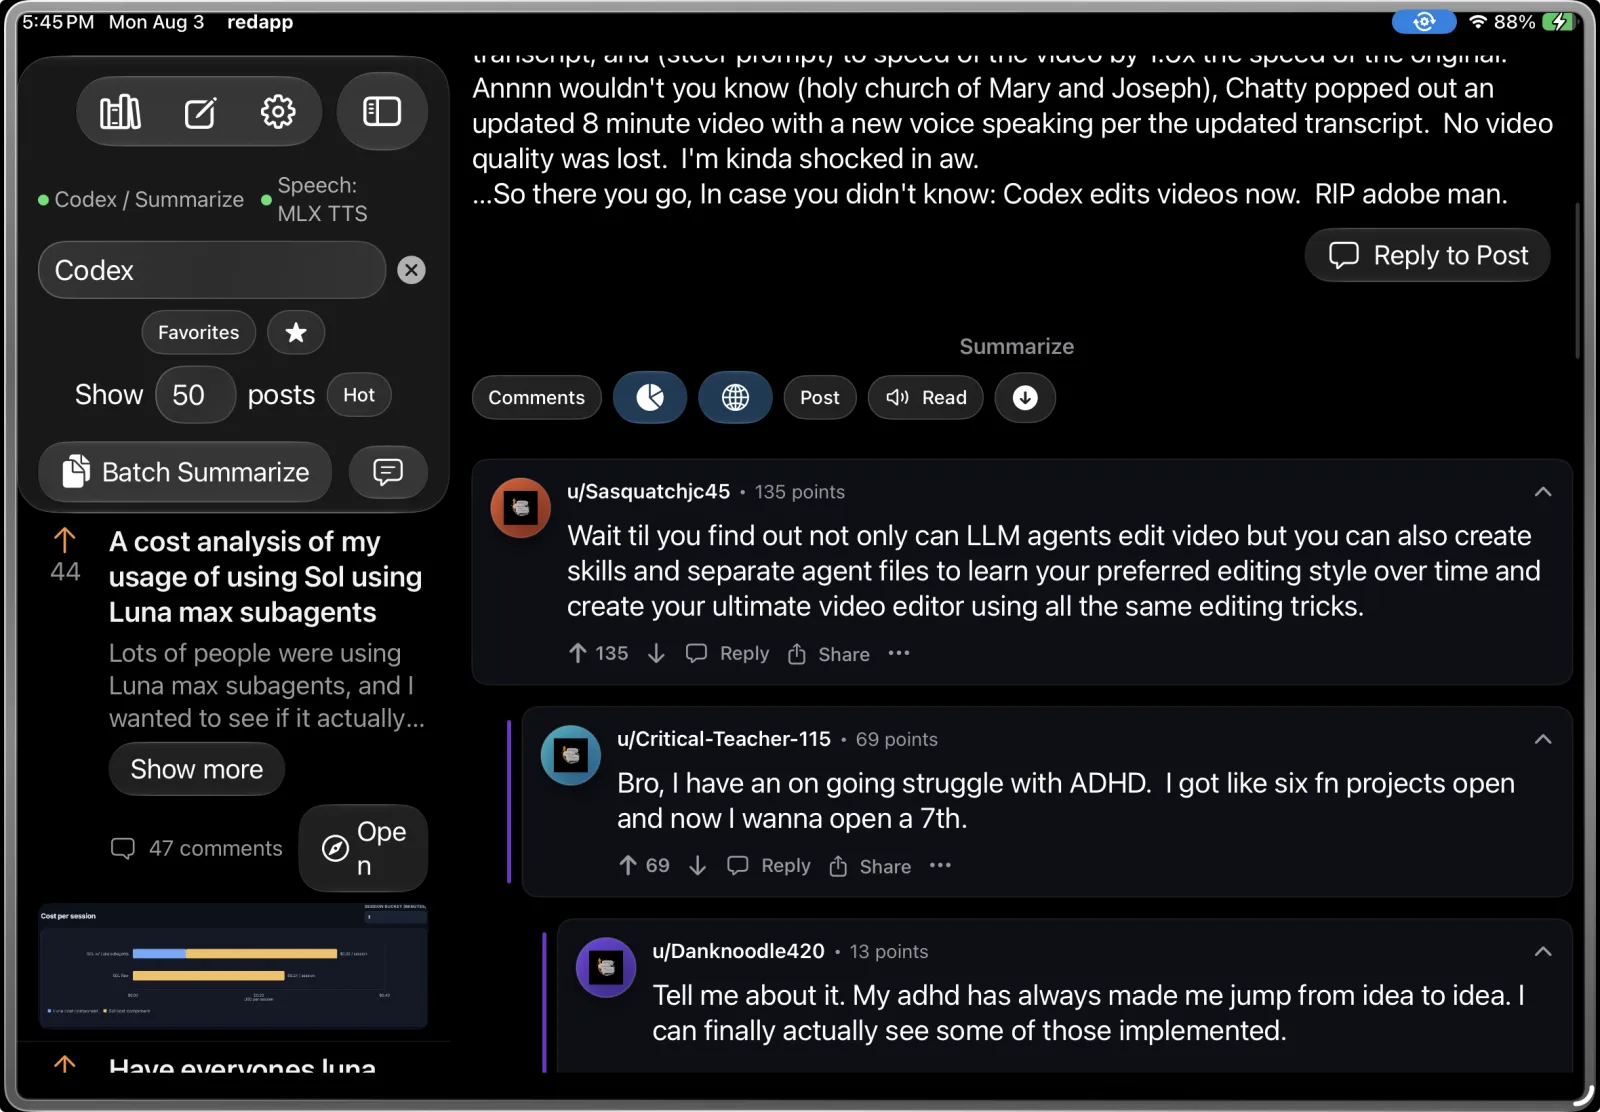
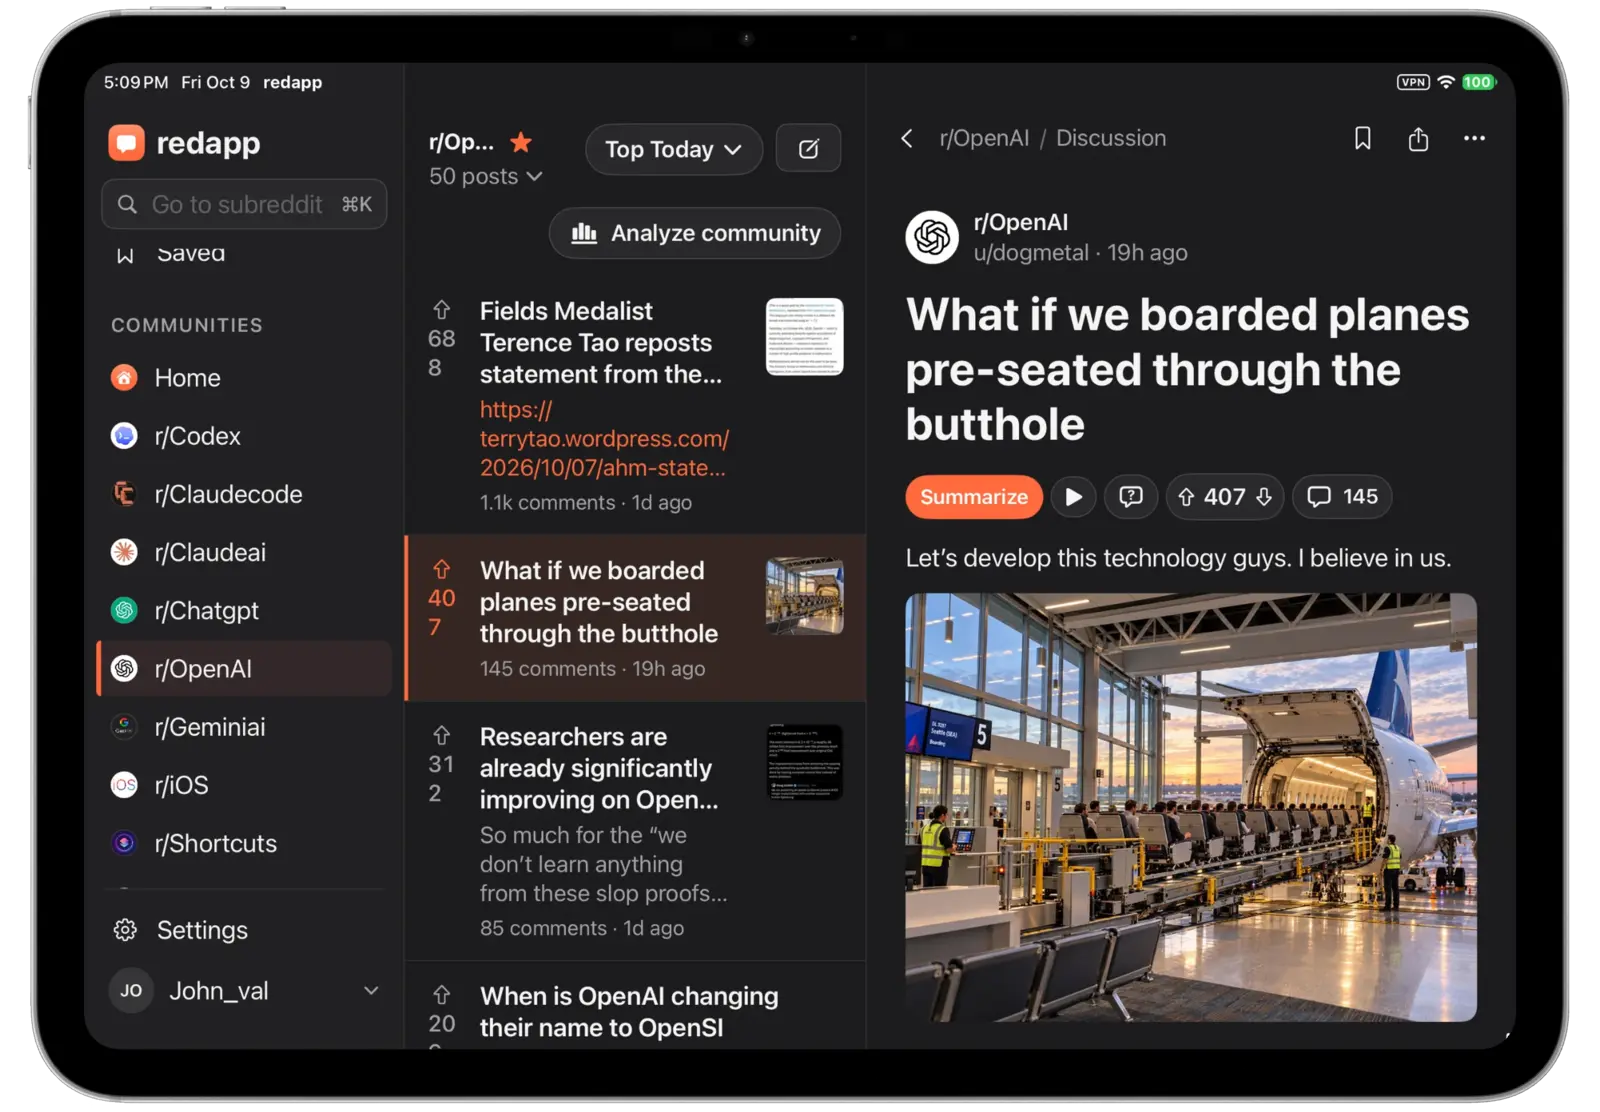
Rename RedSum entry to redapp and use the new redapp screenshot

diff --git a/index.html b/index.html
@@ -36,7 +36,7 @@
               <ul>
                 <li><a href="#apps" data-spy="apps">Apps</a>
                   <ul>
-                    <li><a href="#redsum" data-spy="redsum">RedSum</a></li>
+                    <li><a href="#redsum" data-spy="redsum">redapp</a></li>
                     <li><a href="#rssum" data-spy="rssum">RSSum</a></li>
                     <li><a href="#vortex" data-spy="vortex">Vortyra</a></li>
                     <li><a href="#aiassistant" data-spy="aiassistant">Aiassistant</a></li>
@@ -135,9 +135,9 @@
           <article class="symbol" id="redsum">
             <img class="symbol-icon" src="assets/redsum.jpg" alt="" width="72" height="72">
             <div class="symbol-body">
-              <h3><a href="https://apps.apple.com/us/app/redsum/id6757315148" target="_blank" rel="noreferrer">RedSum</a></h3>
-              <pre class="declaration declaration-inline decl-swift"><code><span class="kw">struct</span> <span class="ty">RedSum</span>: <span class="ty">App</span></code></pre>
-              <pre class="declaration declaration-inline decl-objc"><code><span class="cm">// RedSum is a SwiftUI app. Not available in Objective-C.</span></code></pre>
+              <h3><a href="https://apps.apple.com/us/app/redsum/id6757315148" target="_blank" rel="noreferrer">redapp</a></h3>
+              <pre class="declaration declaration-inline decl-swift"><code><span class="kw">struct</span> <span class="ty">redapp</span>: <span class="ty">App</span></code></pre>
+              <pre class="declaration declaration-inline decl-objc"><code><span class="cm">// redapp is a SwiftUI app. Not available in Objective-C.</span></code></pre>
               <p class="badges" aria-label="Availability">
                 <span class="badge">iOS 26.0+</span>
                 <span class="badge">iPadOS 26.0+</span>
@@ -156,7 +156,7 @@
                 </ul>
               </div>
               <figure class="app-shot">
-                <img src="assets/shots/redsum-800.webp" srcset="assets/shots/redsum-800.webp 800w, assets/shots/redsum-1600.webp 1600w" sizes="(max-width: 899px) calc(100vw - 40px), 560px" width="1600" height="1112" loading="lazy" decoding="async" alt="RedSum on iPad showing a populated Reddit discussion with its comments.">
+                <img src="assets/shots/redsum-800.webp" srcset="assets/shots/redsum-800.webp 800w, assets/shots/redsum-1600.webp 1600w" sizes="(max-width: 899px) calc(100vw - 40px), 560px" width="1600" height="1112" loading="lazy" decoding="async" alt="redapp on iPad showing an r/OpenAI discussion with its comments.">
               </figure>
             </div>
           </article>

diff --git a/PRODUCT.md b/PRODUCT.md
@@ -32,7 +32,7 @@ An independent developer who ships native Swift/SwiftUI apps across iPhone, iPad
 ## Capabilities and Constraints
 
 Shipped apps (facts and links from current site):
-- RedSum, iPhone/iPad/Mac, App Store id6757315148, website redapp.digital, source github.com/Joaov41/redapp
+- redapp (App Store name RedSum), iPhone/iPad/Mac, App Store id6757315148, website redapp.digital, source github.com/Joaov41/redapp
 - RSSum, iPhone/iPad/Mac, App Store id6743862589, website rssapp.top, source github.com/Joaov41/Rss
 - Vortyra (formerly Vortex), iPhone/iPad, TestFlight KTsJ3qz4, website vortex.engineer, source github.com/Joaov41/Vortex-Browser
 - Aiassistant, macOS, open source, website ai.assistant.community, source github.com/Joaov41/Aiassistant
